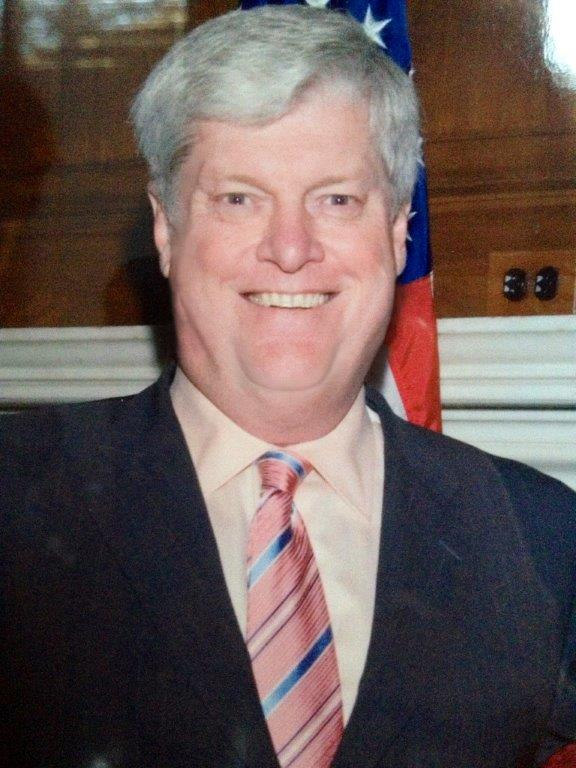
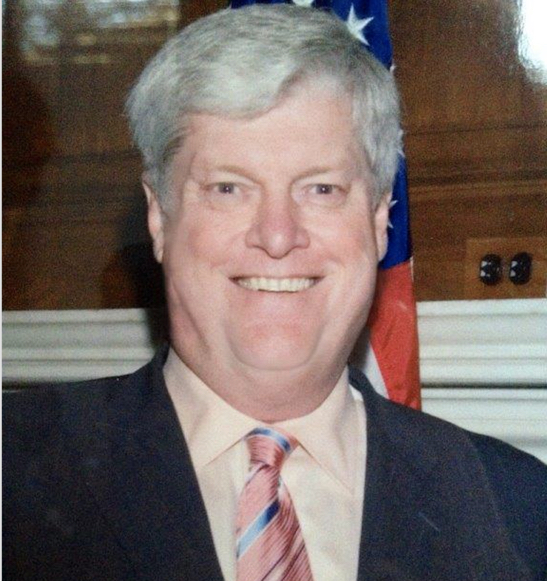
Corrected Stan's photo

diff --git a/team.html b/team.html
@@ -67,7 +67,7 @@
                     <!-- 1st row of Responsive Grid. Four columns on tablets, laptops and desktops. Will stack on mobile devices/small screens (100% width) -->
                     <div class="w3-row-padding w3-center w3-round w3-section w3-mobile">
                         <div class="w3-half">
-                            <img src="assets/images/Stan2.jpg" alt="Stan Schlueter" width="275"
+                            <img src="assets/images/Stan.jpg" alt="Stan Schlueter" width="275"
                                 height="290">
                             </a>
                             <h3>Stan Schlueter</h3>
